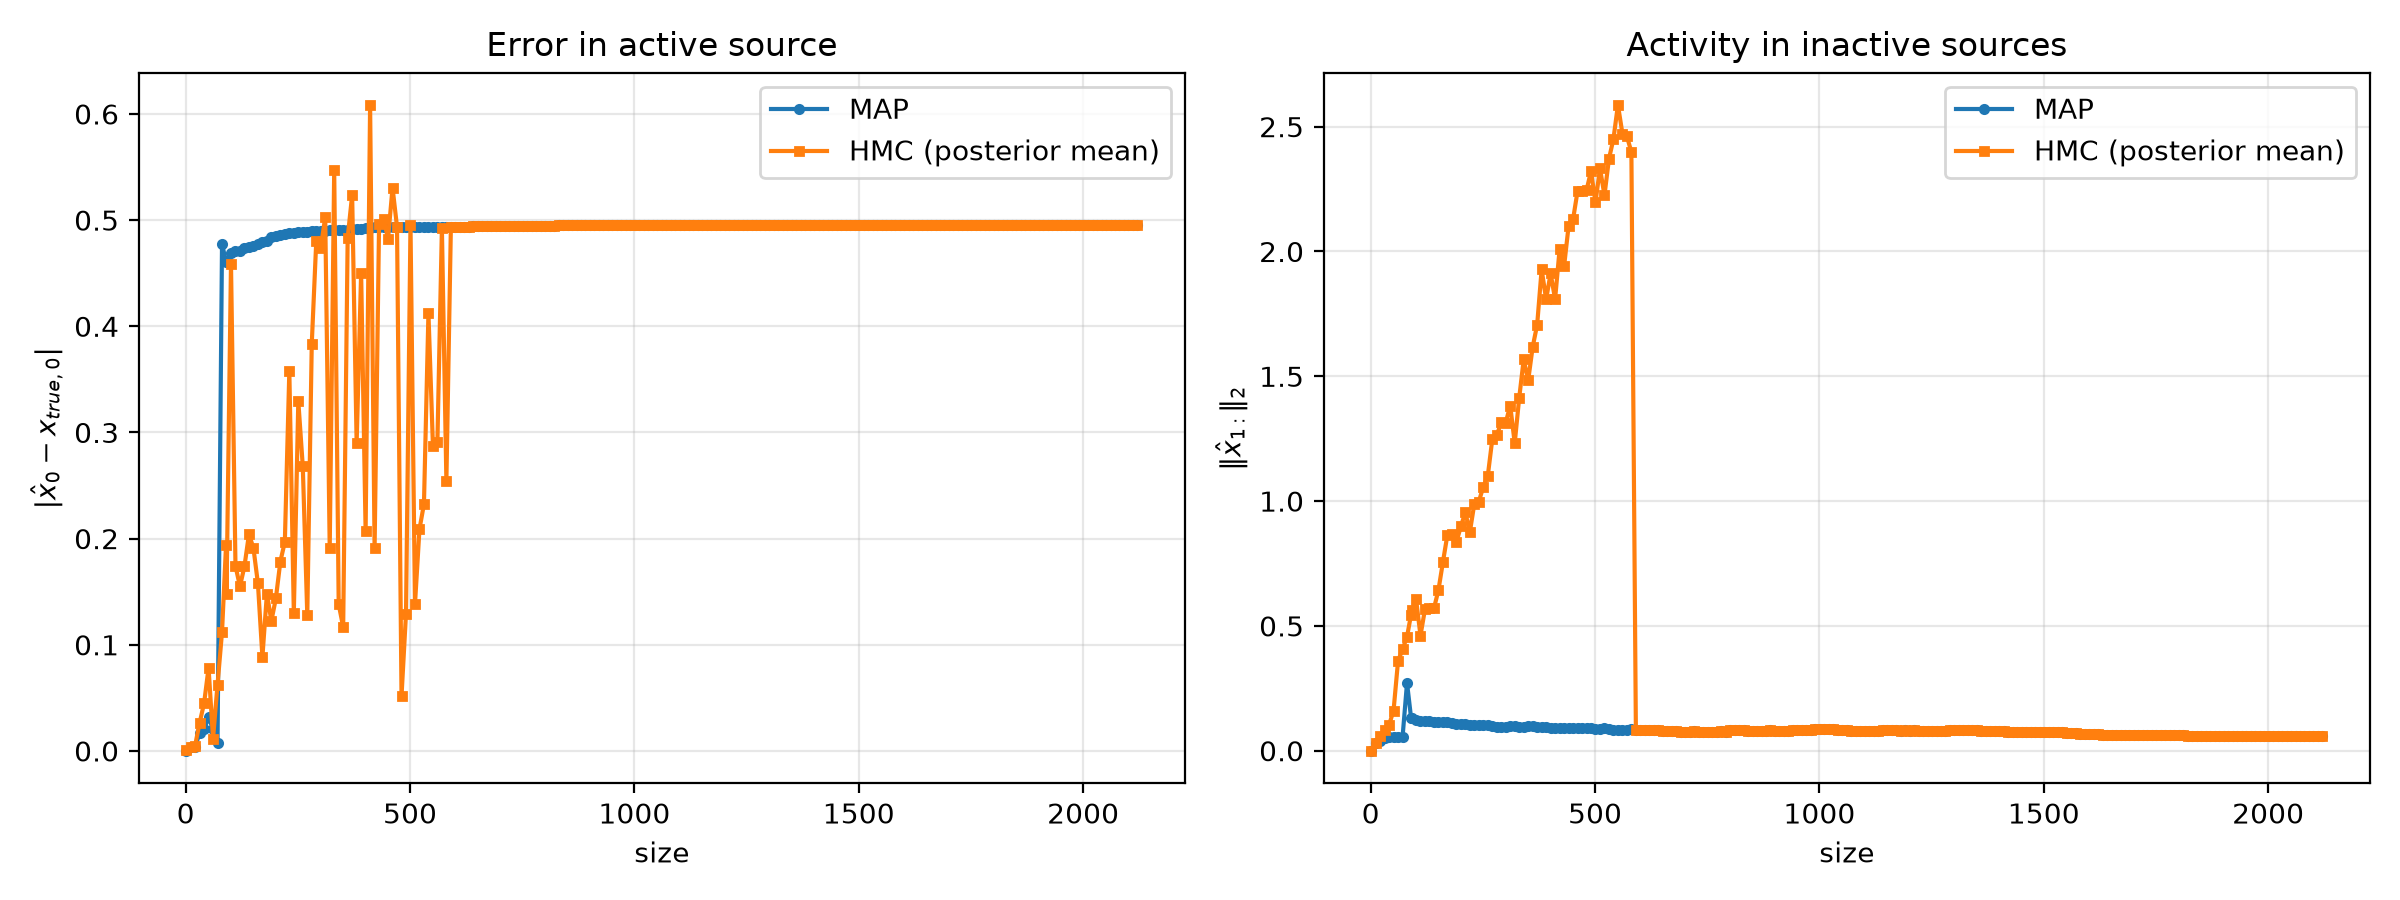
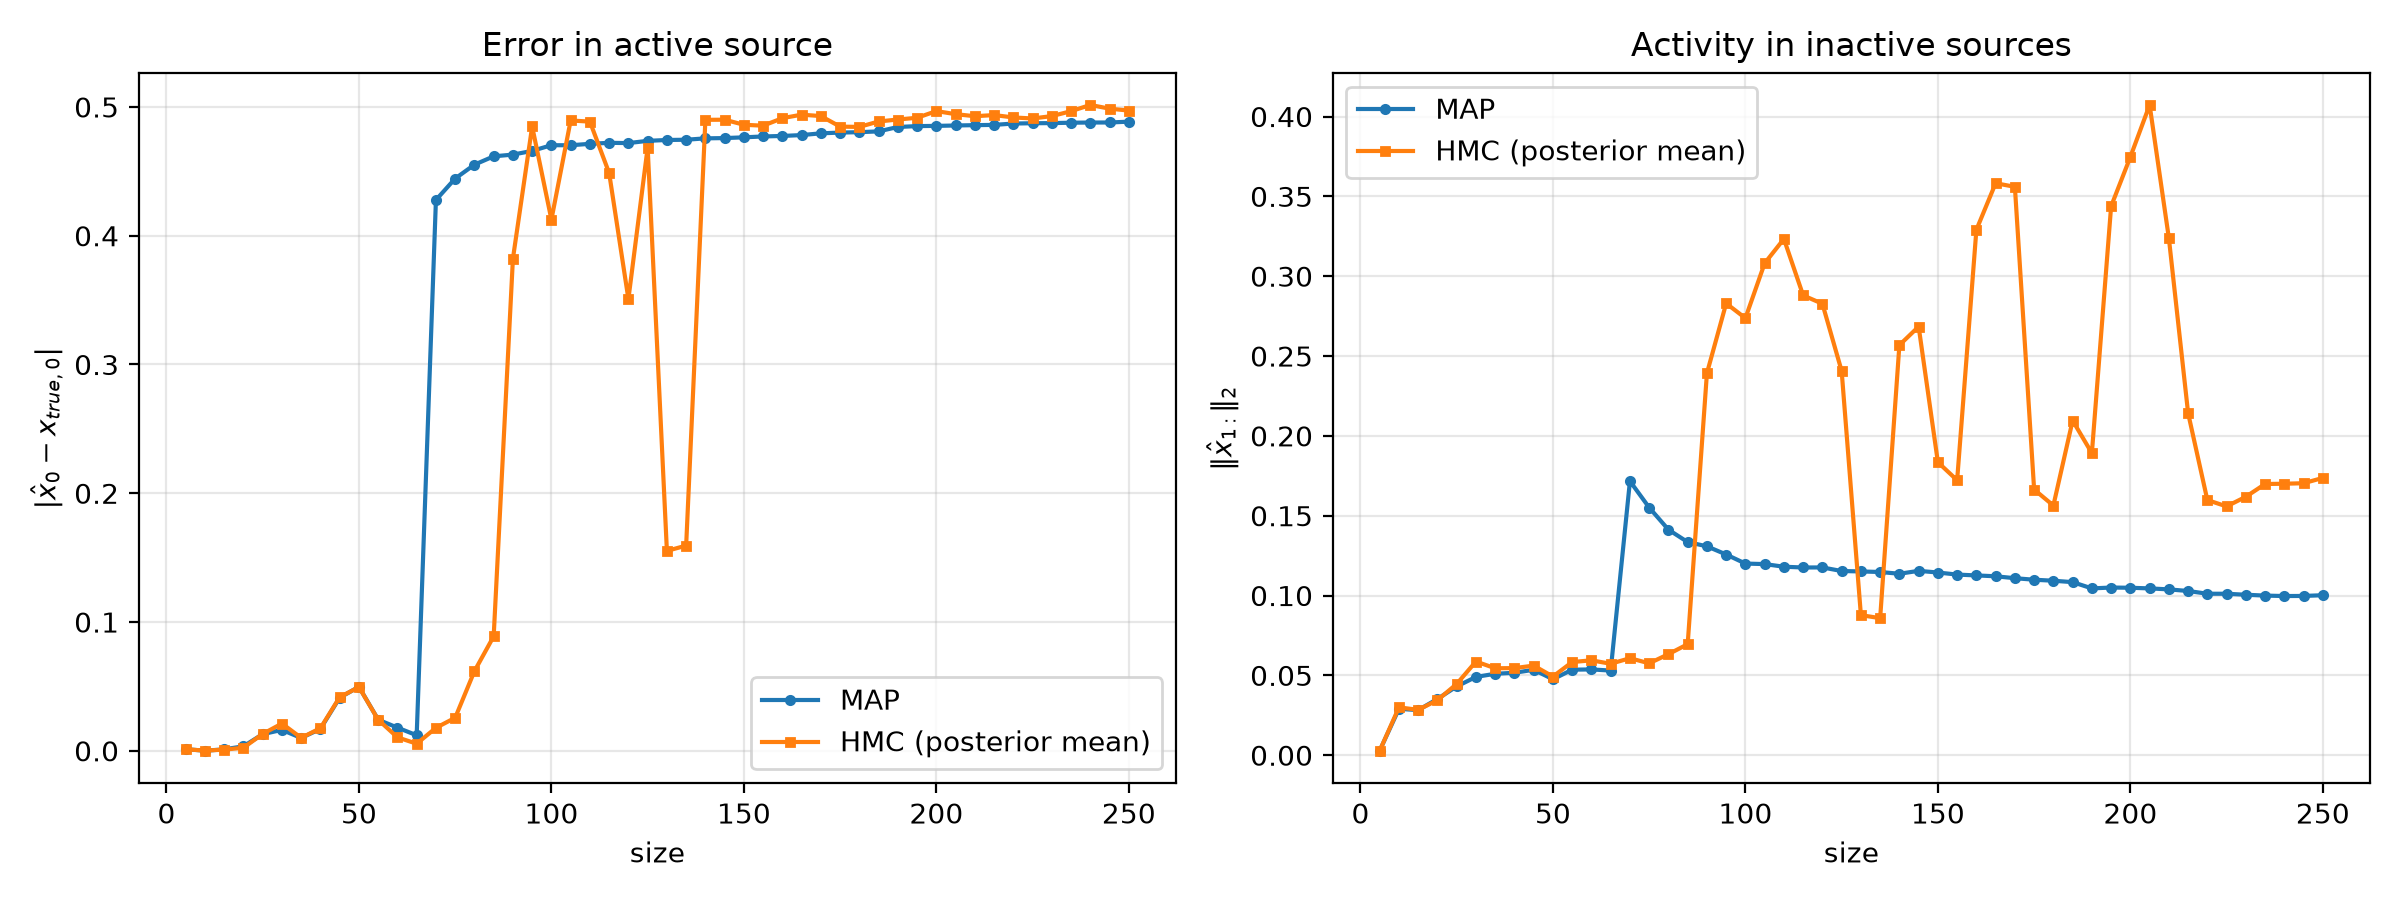
smc

diff --git a/experiments/map_vs_smc/map_vs_smc_experiment.py b/experiments/map_vs_smc/map_vs_smc_experiment.py
@@ -1,0 +1,93 @@
+import sys, os
+import jax
+import jax.numpy as jnp
+import numpy as np
+import mne
+from time import time
+jax.config.update("jax_enable_x64", True)
+
+from pathlib import Path
+
+# Add project root to Python path
+PROJECT_ROOT = Path(__file__).resolve().parents[2]
+sys.path.insert(0, str(PROJECT_ROOT))
+from lib.distributions import SpikeAndSlabPrior, Posterior
+from lib.smc import SMC
+from lib.map_solution import get_map_estimate
+
+slab_var, spike_var, slab_prob = 0.1, 0.001, 0.05
+SpikeAndSlab = SpikeAndSlabPrior(slab_var=slab_var, spike_var=spike_var, slab_prob=slab_prob)
+
+# ---------- Forward model (determinista) ----------
+montage = mne.channels.make_standard_montage("colin27_1020")
+chs = [c for c in montage.ch_names if c not in ["T3", "T4", "T5", "T6"]]
+info = mne.create_info(chs, sfreq=250.0, ch_types="eeg")
+info.set_montage(montage)
+sphere = mne.make_sphere_model(r0="auto", head_radius="auto", info=info)
+src = mne.setup_volume_source_space(sphere=sphere, pos=15.0, exclude=30.0, add_interpolator=False)
+fwd = mne.make_forward_solution(info, trans=None, src=src, bem=sphere, meg=False, eeg=True, mindist=5.0)
+L = fwd["sol"]["data"]
+
+n_channels, n_sources = L.shape
+
+# `size` = nº de FUENTES (columnas de L). Siempre se usan TODOS los sensores.
+# Incluimos n_channels para ver bien la transición sobredeterminado -> infradeterminado.
+#sizes = sorted(set(range(5, 150, 5)) | {150, 1})
+#
+## Si se ejecuta sin argumentos, solo informa de cuántos jobs hacen falta
+#if len(sys.argv) < 2:
+#    print(f"n_channels={n_channels}, n_sources={n_sources}, n_jobs={len(sizes)}  ->  #BSUB -J mapvshmc[1-{len(sizes)}]")
+#    sys.exit(0)
+#
+#job_idx = int(sys.argv[1])          # $LSB_JOBINDEX (1-based)
+#size = sizes[job_idx - 1]
+#print(f"Job {job_idx}: n_channels={n_channels}, n_src(size)={size}", flush=True)
+size = 50
+# ---------- Datos sintéticos (misma semilla en TODOS los jobs) ----------
+tid = 62
+fs = int(info["sfreq"])
+t = np.linspace(0, 1, fs, endpoint=False)
+A = 0.5
+X = np.zeros((n_sources, fs))
+X[0] = A * np.sin(2 * np.pi * t)
+
+beta = 4
+rng = np.random.default_rng(12345)   # <- fija: el ruido es el mismo en todos los jobs
+e = rng.normal(0, 1/beta, size=(n_channels, fs))
+
+# ---------- Problema con `size` fuentes y TODOS los sensores ----------
+L_small = jnp.array(L[:, 0:size])    # (n_channels, size)
+x_small = X[0:size]                  # (size, fs); la fuente 0 siempre incluida
+Y = L_small @ x_small + e            # idéntico en todos los jobs (solo la fuente 0 está activa)
+y_tid = Y[:, tid]
+post = Posterior(prior_distribution=SpikeAndSlab, L=L_small, Y=Y, beta=beta, y_tid=y_tid)
+
+# ---------- MAP ----------
+t0 = time()
+map_solution = get_map_estimate(post.log_posterior, theta0=jnp.zeros(size))
+map_time = time() - t0
+map_solution = np.asarray(map_solution).ravel()
+map_norm_diff = float(np.linalg.norm(map_solution - x_small[:, tid]))
+
+# ---------- HMC ----------
+t0 = time()
+theta_map = jnp.expand_dims(map_solution, axis=0)
+thetas = SMC(log_prior=post.log_prior, log_likelihood=post.log_likelihood, log_target_ini=post.log_posterior, num_iterations=Y.shape[0], theta0=theta_map, S=10, num_leapfrog_steps_ini=250, num_leapfrog_steps_smc=20, step_size=1e-5, seed=0)
+hmc_time = time() - t0
+hmc_mean = jnp.mean(thetas[100:], axis=0)
+hmc_norm_diff = float(jnp.linalg.norm(hmc_mean - x_small[:, tid]))
+
+print(f"n_src: {size}, MAP norm diff: {map_norm_diff:.4f}, HMC norm diff: {hmc_norm_diff:.4f}", flush=True)
+
+# ---------- Guardar (un fichero por job) ----------
+script_dir = os.path.dirname(os.path.abspath(__file__))
+print(f"Guardando resultados en {script_dir}/results/size_{size:04d}.npz", flush=True)
+results_dir = os.path.join(script_dir, "results")
+os.makedirs(results_dir, exist_ok=True)
+np.savez(
+    f"experiments/map_vs_hmc/results/size_{size:04d}.npz",
+    size=size, n_channels=n_channels,
+    map_mean=map_solution, map_norm_diff=map_norm_diff, map_time=map_time,
+    hmc_mean=np.asarray(hmc_mean), hmc_norm_diff=hmc_norm_diff, hmc_time=hmc_time,
+    thetas=np.asarray(thetas),
+)

diff --git a/lib/smc.py b/lib/smc.py
@@ -19,26 +19,31 @@ def reweight(log_p_t, theta, itt):
     weights = jnp.exp(log_weights - logsumexp(log_weights))  # Normalize the weights to sum to 1
     return weights
 
-def SMC(log_prior, log_likelihood_t, theta0, num_iterations, S=10, num_leapfrog_steps=10, step_size=1e-1, seed=0):
+def SMC(log_prior, log_likelihood_t, log_target_ini, theta0, num_iterations, S=10, num_leapfrog_steps_ini=10, num_leapfrog_steps_smc=10, step_size=1e-1, seed=0):
     """ Implements the basic SMC algorithm for D-dimensional target distribution specified by log_target
     
     Arguments:
-    log_prior           -- Function implementing the logarithm of the prior distribution (up to an additive constant). The function must return scalar values and be compatible with theta0
-    log_likelihood_t    -- Function implementing the logarithm of the likelihood for a given time t. The function must return scalar values and be compatible with theta0
-    theta0              -- Initial position, JaX array of shape 1xD, where D is the dimension
-    num_iterations      -- Number of iterations
-    S                   -- Number of steps in muatation step
-    num_leapfrog_steps  -- Number of leapfrog steps
-    step_size           -- Step-size eta for leapfrog integration
-    seed                -- seed
-    verbose             -- Whether to print progress information
+    log_prior               -- Function implementing the logarithm of the prior distribution (up to an additive constant). The function must return scalar values and be compatible with theta0
+    log_likelihood_t        -- Function implementing the logarithm of the likelihood for a given time t. The function must return scalar values and be compatible with theta0
+    log_target_ini          -- Function implementing the logarithm of the likelihood to obtain mass matrix. The function must return scalar values and be compatible with theta0
+    theta0                  -- Initial position, JaX array of shape 1xD, where D is the dimension
+    num_iterations          -- Number of iterations
+    S                       -- Number of steps in muatation step
+    num_leapfrog_steps_ini  -- Number of leapfrog steps for the initial stage
+    num_leapfrog_steps_smc  -- Number of leapfrog steps for the SMC stage
+    step_size               -- Step-size eta for leapfrog integration
+    seed                    -- seed
+    verbose                 -- Whether to print progress information
     
-    Returns:
-    thetas              -- MCMC samples, JaX array of shape (num_iterations+1, D)
+    Returns:    
+    thetas                  -- MCMC samples, JaX array of shape (num_iterations+1, D)
     """
     N = theta0.shape[0]  # Number of particles
     key = random.PRNGKey(seed)
     theta, thetas = theta0, [theta0]   # list of SMC samples
+    
+    thetas_warmup = HMC(log_target_ini, num_iterations//5, theta0, num_leapfrog_steps=num_leapfrog_steps_ini, step_size=step_size, seed=seed)
+    Sigma_est = jnp.cov(thetas_warmup.T)
     
     weights = jnp.ones(N) / N  # Initialize weights uniformly
     
@@ -55,7 +60,7 @@ def SMC(log_prior, log_likelihood_t, theta0, num_iterations, S=10, num_leapfrog_
         with contextlib.redirect_stdout(io.StringIO()):
             for i in range(N):
                 theta_i = theta[i:i+1]  # Current particle
-                chain = HMC(log_target_t, S, theta_i, num_leapfrog_steps, step_size, seed=seed + itt * N + i)  # Take the last sample from HMC as the new theta
+                chain = HMC(log_target_t, S, theta_i, num_leapfrog_steps_smc, step_size*10000, seed=seed + itt * N + i)  # Take the last sample from HMC as the new theta
                 new.append(chain[-1])  # Append the last sample of the chain to new particles
         theta = jnp.vstack(new)  # Stack the new particles into a single array
         thetas.append(theta)

diff --git a/experiments/map_vs_smc/aggregate_results.py b/experiments/map_vs_smc/aggregate_results.py
@@ -1,0 +1,76 @@
+"""
+aggregate_results.py
+
+Lee results/size_XXXX.npz (un fichero por job de map_vs_hmc) y dibuja, para MAP y HMC:
+  - error en la fuente activa:      |x_hat[0] - x_true[0]|
+  - actividad en fuentes inactivas: ||x_hat[1:]||_2
+frente a size, en una sola figura con dos paneles.
+
+Uso:
+    python aggregate_results.py
+    python aggregate_results.py --results_dir results --out map_vs_hmc_error.png
+"""
+import argparse
+import glob
+
+import numpy as np
+import matplotlib
+
+matplotlib.use("Agg")
+import matplotlib.pyplot as plt
+
+# Deben coincidir con map_vs_hmc
+A = 0.5
+TID = 62
+FS = 250
+X_TRUE_0 = A * np.sin(2 * np.pi * TID / FS)  # valor real de la fuente 0 en el instante tid
+
+
+def main():
+    p = argparse.ArgumentParser()
+    p.add_argument("--results_dir", default="experiments/map_vs_hmc/results")
+    p.add_argument("--out", default="experiments/map_vs_hmc/error.png")
+    args = p.parse_args()
+
+    files = sorted(glob.glob(f"{args.results_dir}/size_*.npz"))
+    if not files:
+        raise FileNotFoundError(f"No hay ficheros size_*.npz en '{args.results_dir}'")
+
+    rows = []
+    for f in files:
+        d = np.load(f)
+        m, h = d["map_mean"], d["hmc_mean"]
+        rows.append((
+            int(d["size"]),
+            abs(m[0] - X_TRUE_0), abs(h[0] - X_TRUE_0),
+            np.linalg.norm(m[1:]), np.linalg.norm(h[1:]),
+        ))
+
+    rows = np.array(sorted(rows))
+    size = rows[:, 0]
+    map_act, hmc_act, map_off, hmc_off = rows[:, 1], rows[:, 2], rows[:, 3], rows[:, 4]
+
+    fig, axes = plt.subplots(1, 2, figsize=(12, 4.5), sharex=True)
+
+    axes[0].plot(size, map_act, "o-", ms=3, label="MAP")
+    axes[0].plot(size, hmc_act, "s-", ms=3, label="HMC (posterior mean)")
+    axes[0].set_title("Error in active source")
+    axes[0].set_ylabel(r"$|\hat{x}_0 - x_{true,0}|$")
+
+    axes[1].plot(size, map_off, "o-", ms=3, label="MAP")
+    axes[1].plot(size, hmc_off, "s-", ms=3, label="HMC (posterior mean)")
+    axes[1].set_title("Activity in inactive sources")
+    axes[1].set_ylabel(r"$\|\hat{x}_{1:}\|_2$")
+
+    for ax in axes:
+        ax.set_xlabel("size")
+        ax.grid(alpha=0.3)
+        ax.legend()
+
+    fig.tight_layout()
+    fig.savefig(args.out, dpi=200)
+    print(f"{len(size)} jobs -> {args.out}")
+
+
+if __name__ == "__main__":
+    main()

diff --git a/experiments/map_vs_hmc_inverse/map_vs_hmc_experiment.py b/experiments/map_vs_hmc_inverse/map_vs_hmc_experiment.py
@@ -15,7 +15,7 @@ from lib.distributions import SpikeAndSlabPrior, Posterior
 from lib.hmc import HMC_inverse_mass
 from lib.map_solution import get_map_estimate
 
-slab_var, spike_var, slab_prob = 0.1, 0.001, 0.5
+slab_var, spike_var, slab_prob = 0.1, 0.001, 0.05
 SpikeAndSlab = SpikeAndSlabPrior(slab_var=slab_var, spike_var=spike_var, slab_prob=slab_prob)
 
 # ---------- Forward model (determinista) ----------
@@ -32,17 +32,17 @@ n_channels, n_sources = L.shape
 
 # `size` = nº de FUENTES (columnas de L). Siempre se usan TODOS los sensores.
 # Incluimos n_channels para ver bien la transición sobredeterminado -> infradeterminado.
-sizes = sorted(set(range(1, n_sources + 1, 10)) | {n_channels})
+sizes = sorted(set(range(5, 251, 5)) | {1})
 
 # Si se ejecuta sin argumentos, solo informa de cuántos jobs hacen falta
-#if len(sys.argv) < 2:
-#    print(f"n_channels={n_channels}, n_sources={n_sources}, n_jobs={len(sizes)}  ->  #BSUB -J mapvshmc[1-{len(sizes)}]")
-#    sys.exit(0)
-#
-#job_idx = int(sys.argv[1])          # $LSB_JOBINDEX (1-based)
-#size = sizes[job_idx - 1]
-#print(f"Job {job_idx}: n_channels={n_channels}, n_src(size)={size}", flush=True)
-size = 80
+if len(sys.argv) < 2:
+    print(f"n_channels={n_channels}, n_sources={n_sources}, n_jobs={len(sizes)}  ->  #BSUB -J mapvshmc[1-{len(sizes)}]")
+    sys.exit(0)
+
+job_idx = int(sys.argv[1])          # $LSB_JOBINDEX (1-based)
+size = sizes[job_idx - 1]
+print(f"Job {job_idx}: n_channels={n_channels}, n_src(size)={size}", flush=True)
+
 # ---------- Datos sintéticos (misma semilla en TODOS los jobs) ----------
 tid = 62
 fs = int(info["sfreq"])
@@ -76,7 +76,7 @@ theta_map = jnp.expand_dims(map_solution, axis=0)
 thetas = HMC_inverse_mass(log_target=post.log_posterior, num_iterations=2000, theta0=theta_map,
              num_leapfrog_steps=250, step_size=1e-5, seed=0)
 hmc_time = time() - t0
-hmc_mean = jnp.mean(thetas[100:], axis=0)
+hmc_mean = jnp.mean(thetas[400:], axis=0)
 hmc_norm_diff = float(jnp.linalg.norm(hmc_mean - x_small[:, tid]))
 
 print(f"n_src: {size}, MAP norm diff: {map_norm_diff:.4f}, HMC norm diff: {hmc_norm_diff:.4f}", flush=True)

diff --git a/lib/hmc.py b/lib/hmc.py
@@ -92,5 +92,5 @@ def HMC_inverse_mass(log_target, num_iterations, theta0, num_leapfrog_steps=10, 
     Sigma_est = jnp.cov(thetas_warmup.T)
     print(f"Estimated covariance matrix:\n{Sigma_est}\n")
     
-    thetas = HMC(log_target, num_iterations, theta0, num_leapfrog_steps=num_leapfrog_steps//5, step_size=1000*step_size, Sigma=Sigma_est, seed=seed)
+    thetas = HMC(log_target, num_iterations, theta0, num_leapfrog_steps=num_leapfrog_steps//5, step_size=10000*step_size, Sigma=Sigma_est, seed=seed)
     return thetas

diff --git a/experiments/map_vs_hmc/map_vs_hmc_experiment.py b/experiments/map_vs_hmc/map_vs_hmc_experiment.py
@@ -32,7 +32,7 @@ n_channels, n_sources = L.shape
 
 # `size` = nº de FUENTES (columnas de L). Siempre se usan TODOS los sensores.
 # Incluimos n_channels para ver bien la transición sobredeterminado -> infradeterminado.
-sizes = sorted(set(range(1, n_sources + 1, 10)) | {n_channels})
+sizes = sorted(set(range(5, 150, 5)) | {150, 1})
 
 # Si se ejecuta sin argumentos, solo informa de cuántos jobs hacen falta
 if len(sys.argv) < 2:

diff --git a/experiments/map_vs_hmc_inverse/trace_inspection.py b/experiments/map_vs_hmc_inverse/trace_inspection.py
@@ -29,10 +29,10 @@ import matplotlib.pyplot as plt
 A = 0.5
 TID = 62
 FS = 250
-BURN_IN = 100
+BURN_IN = 400
 X_TRUE_0 = A * np.sin(2 * np.pi * TID / FS)
 
-DEFAULT_TARGETS = [80]  # last one -> largest available
+DEFAULT_TARGETS = [5, 15, 30, 50, 75, 85, 90, 95, 100, 150, 200, 250]  # last one -> largest available
 
 
 def available_sizes(results_dir):
